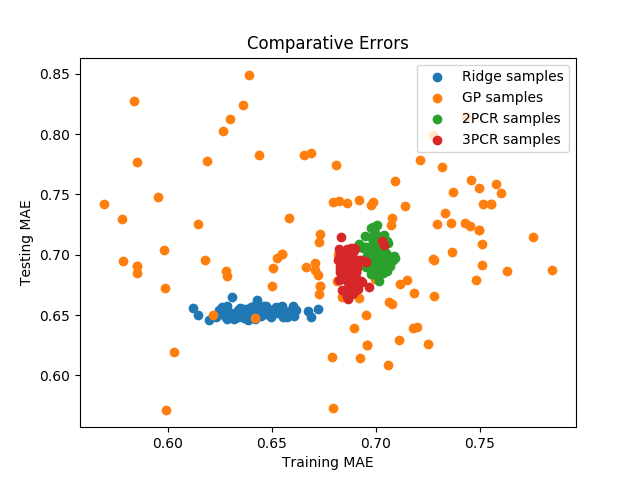
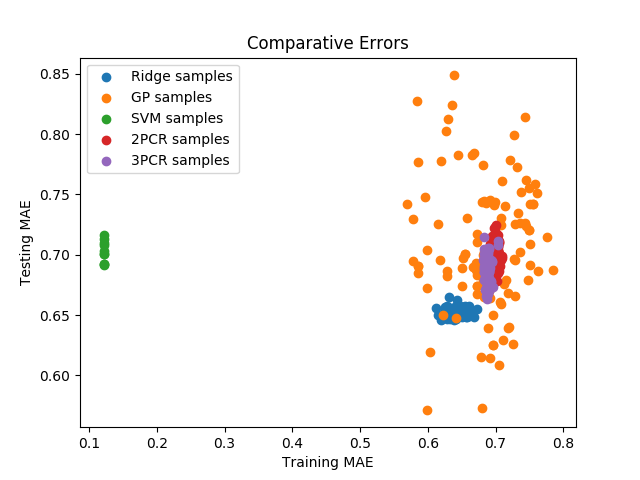
done?

diff --git a/optional_9/plot_times.py b/optional_9/plot_times.py
@@ -22,6 +22,16 @@ with open('timing_data/test_time_Ridge.csv') as f:
     Ridge_test = np.array(lines, dtype = np.float32)
 
 
+with open('timing_data/train_time_svm.csv') as f:
+    lines = f.readlines()
+    SVM_train = np.array(lines, dtype = np.float32)
+
+
+with open('timing_data/test_time_svm.csv') as f:
+    lines = f.readlines()
+    SVM_test = np.array(lines, dtype = np.float32)
+
+
 with open('timing_data/train_time_pca2.csv') as f:
     lines = f.readlines()
     pca2_train = np.array(lines, dtype = np.float32)
@@ -43,7 +53,7 @@ with open('timing_data/test_time_pca3.csv') as f:
 
 Ridge = Ridge_train+Ridge_test
 GP = GP_train+GP_test
-SVM = Ridge #SVM_train+SVM_test
+SVM = SVM_train+SVM_test
 pca2 = pca2_train+pca2_test
 pca3 = pca3_train+pca3_test
 
@@ -54,8 +64,8 @@ print(np.average(Ridge_test))
 print(np.average(GP_train))
 print(np.average(GP_test))
 
-#print(np.average(SVM_train))
-#print(np.average(SVM_test))
+print(np.average(SVM_train))
+print(np.average(SVM_test))
 
 print(np.average(pca2_train))
 print(np.average(pca2_test))
@@ -123,6 +133,22 @@ plt.xlabel('Testing Time (sec)')
 plt.ylabel('Count')
 plt.title('Histogram of Ridge Regression Testing')
 plt.savefig('graphs/Ridge_test.png')
+plt.show()
+
+
+plt.hist(SVM_train)
+plt.xlabel('Training Time (sec)')
+plt.ylabel('Count')
+plt.title('Histogram of SVM Regression Training')
+plt.savefig('graphs/SVM_train.png')
+plt.show()
+
+
+plt.hist(SVM_test)
+plt.xlabel('Testing Time (sec)')
+plt.ylabel('Count')
+plt.title('Histogram of SVM Regression Testing')
+plt.savefig('graphs/svm_test.png')
 plt.show()
 
 

diff --git a/milestone_4/plot_errors.py b/milestone_4/plot_errors.py
@@ -22,12 +22,12 @@ with open('error_data/test_error_Ridge.csv') as f:
     Ridge_test = np.array(lines, dtype = np.float32)
 
 
-with open('error_data/train_error_Ridge.csv') as f:
+with open('error_data/train_error_svm.csv') as f:
     lines = f.readlines()
     SVM_train = np.array(lines, dtype = np.float32)
 
 
-with open('error_data/test_error_Ridge.csv') as f:
+with open('error_data/test_error_svm.csv') as f:
     lines = f.readlines()
     SVM_test = np.array(lines, dtype = np.float32)
 
@@ -160,7 +160,7 @@ plt.scatter(pca3_train, pca3_test, label = "3PCR samples")
 plt.xlabel("Training MAE")
 plt.ylabel("Testing MAE")
 plt.title('Comparative Errors')
-plt.legend(loc='upper right')
+plt.legend(loc='upper left')
 plt.savefig('graphs/Comparison.png')
 plt.show()
 
